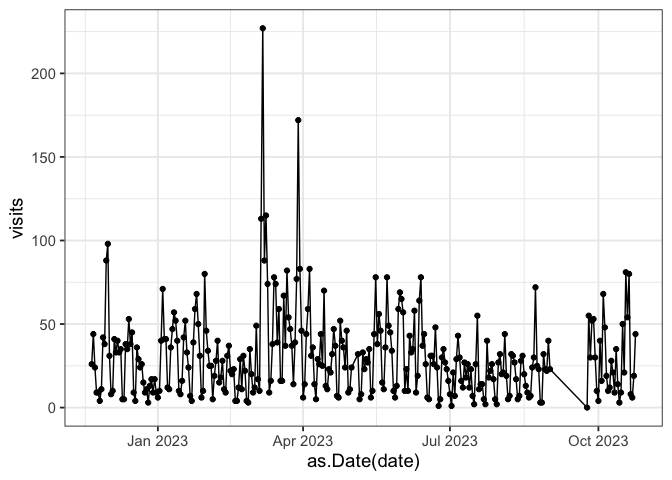
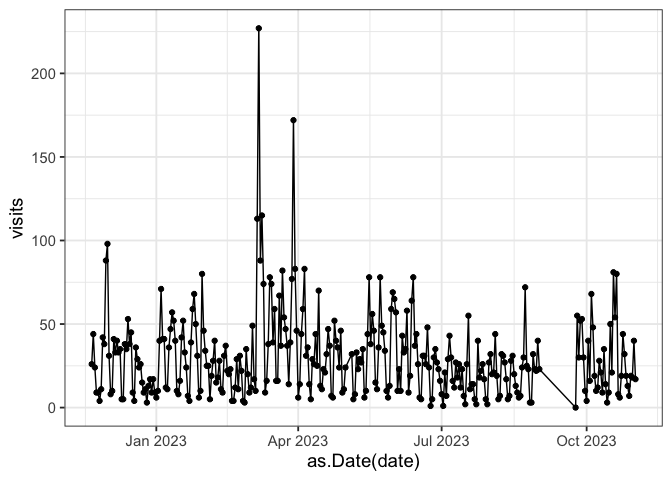
update for Nov 1

diff --git a/README.md b/README.md
@@ -23,9 +23,9 @@ This repository contains code and data on metrics for the OSF project,
 
 ## Stats
 
-This README last generated on **2023-10-24**.
+This README last generated on **2023-11-01**.
 
-Most recent data gathered on **2023-10-24**.
+Most recent data gathered on **2023-11-01**.
 
 ### Downloads
 
@@ -41,8 +41,8 @@ downloads_file %>%
 | file                                                            | downloads |
 |:----------------------------------------------------------------|----------:|
 | Data Management and Sharing Plan Checklist for Researchers.docx |       225 |
-| 2022-10-26_ExampleDMSP_annotated.pdf                            |       213 |
-| Policy Readiness Checklist for Librarians.docx                  |        61 |
+| 2022-10-26_ExampleDMSP_annotated.pdf                            |       214 |
+| Policy Readiness Checklist for Librarians.docx                  |        62 |
 | Data Terms related to the NIH DMS Plan and Policy.docx          |        40 |
 | Extended Reference for DMSP Checklist.docx                      |        34 |
 | Example_DMSP_Metadata.xlsx                                      |        22 |
